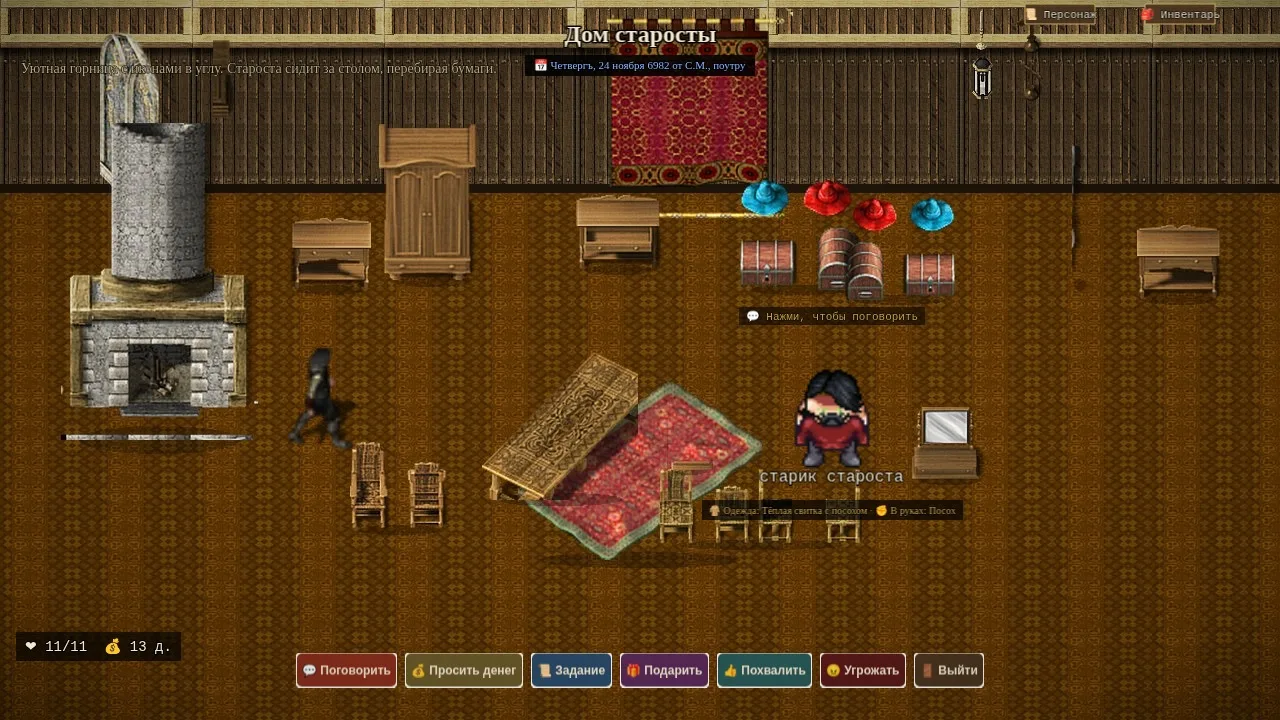
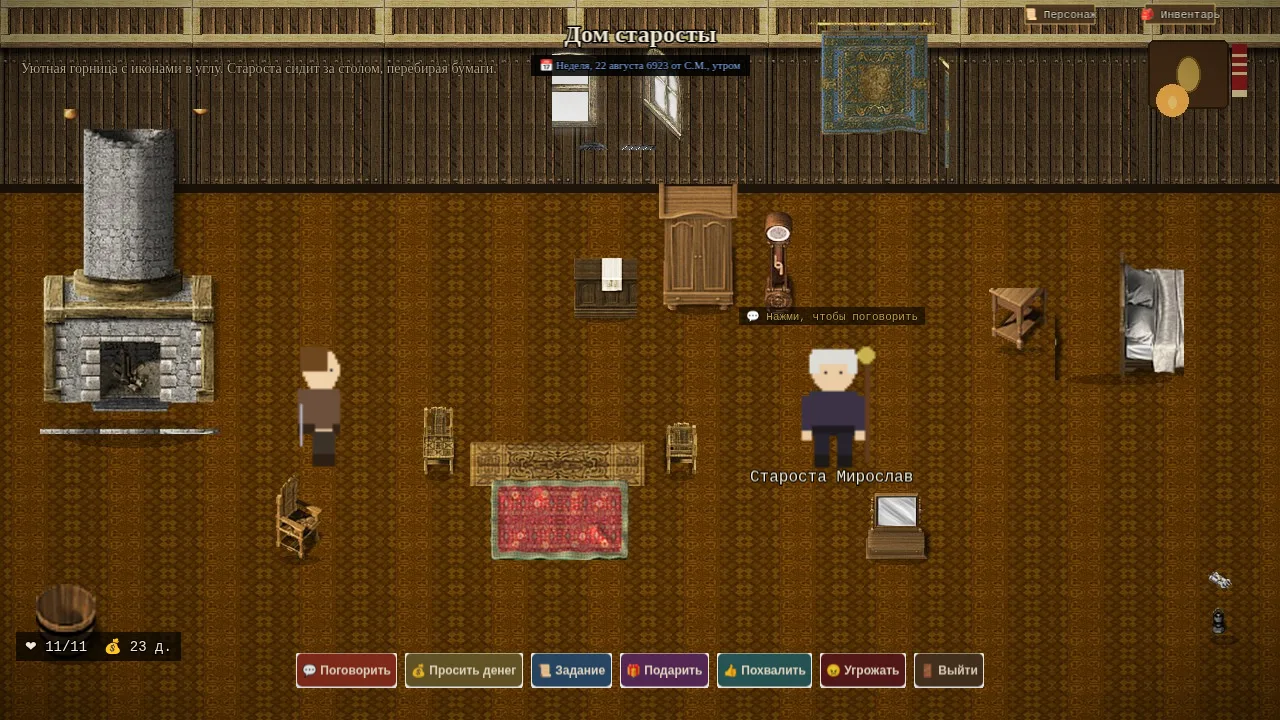
Раунд 54: полная переделка интерьеров — логический порядок, без клонов и коллизий
- Все 17 интерьеров пересобраны генератором make_interiors_r54.py по канону избы:
  печь слева, стол со стульями и ковром в центре, кровать у правой стены,
  красный угол (киот+икона+рушник+лампада), профзона у стены, свободный низ
- Только фронтальные спрайты; клоно-мусор снят (ящики вместо бочек, шкуры-кляксы,
  свиньи, платье-манекен, неоновая пряжа, хвойные брёвна)
- Автопроверки генератора: bbox-наложения (порог 6px), лимит клонов ≤2,
  свободные якоря игрока/NPC/второго NPC
- Кузница: горн С ОГНЁМ; ткачиха: станок; церковь: иконы и скамьи;
  товары ставятся НА полки/столы (караваи, кувшины, пироги, весы, мотки)
- Скриншоты 06/07 пересняты, добавлен 10-blacksmith; alt RU/EN обновлены
- SW v52, game-assets-v14; отчёт docs/QA_ROUND54_INTERIORS_REMAKE.md

diff --git a/sw.js b/sw.js
@@ -2,6 +2,8 @@
    Network-first для HTML/CSS/JS, cache-first для ассетов игры.
    Network-first для HTML/CSS/JS, cache-first для ассетов игры.
 
+v52 — раунд 54 (приказ владельца: «интерьеры отвратительные, все вперемешку, много одинаковых клонов предметов, много коллизий — переделать и привести к логическому порядку»): ВСЕ 17 интерьеров пересобраны с нуля генератором make_interiors_r54.py по канону избы — печь слева, стол со стульями и ковром в центре, кровать у правой стены, красный угол с иконой/рушником/лампадой, профессиональные полки у стены; ТОЛЬКО фронтальные спрайты (диагональные скамьи/столы/кровати выведены из оборота), клоно-мусор удалён (ящики-«бочки» из Shop.png, шкуры-кляксы, свиньи/платья-«люди» в фонах, неоновая пряжа, хвойные брёвна), bbox-проверка наложений + лимит клонов ≤2 в генераторе, свободные якоря игрока/NPC/второго NPC; кузница — горн С ОГНЁМ и доспехи, ткачиха — ткацкий станок, церковь — большая икона, кресты и скамьи; товары ставятся НА полки/столы (караваи, кувшины, пироги, мотки); скриншоты 06/07 пересняты, добавлен 10-blacksmith (RU/EN галерея, alt обновлены); SW v52, game-assets-v14.
+
 v51 — релиз (раунд 53, приказ владельца: «удалить торговую и мясную лавки — дома нужнее»): ЛАВКИ СНЯТЫ — на их местах в слободе стоят ЖИЛЫЕ ДОМА: Дом Прасковьи (снедница печёт дома, торгует с крыльца) и Дом Потапа (мясник, столешня при доме); новые фасады из Rural_TileD (светлый дом с голубой дверью и цветком / дом с каменной кладкой); оба интерьера 1280×720 пересобраны с нуля из Medieval - Interiors как ЖИЛЫЕ (хлебная горница с печью, комодом и кроватью / столешня с разделочным столом, окороками, медвежьей шкурой); кнопка «Торговать» у Прасковьи и Потапа снята (у лавки ремесленника сохранена); расписания/присутствие/подсказки Прасковьи и Потапа переведены на «дом» (печёт караваи / рубит тушу), реплики и диалоги переработаны (торговля с крыльца), упоминания «лавки/палатки» у соседей исправлены; загрузкаBootScene убрала rural_shop_0/2 и добавила rurald_house_0/1; скриншот сайта 04-village переснят (новая деревня, alt RU/EN обновлены); SW v51, game-assets-v13.
 
 v49 — релиз (раунд 51, п.11 заявки владельца: «ЕЩЁ ДЕРЕВЯННЫЕ ДОМА И ТОРГОВЫЕ ЛАВКИ» из пакета Rural_TileB/C): ВОСТОЧНАЯ СЛОБОДА — карта деревни расширена на восток (26→32 тайла), ворота переехали на новый восточный край; РЫНОЧНЫЙ РЯД — три торговые лавки-палатки из пакета владельца: Лавка снеди (Прасковья: каравай, сыр, молоко, пирог, грибы), Мясная лавка (Потап: колбаса, сало, вяленая рыба, окорок, похлёбка), Лавка ремесленника (Аверьян: факел, верёвка, кремень, свеча, оберег) — у каждой свой тайловый интерьер 1280×720 из листов Shop/Shop_2/Tavern пакета Medieval - Interiors (прилавки с товаром, витрины, туши на крюках, рыба, книжные полки, гобелены, сундуки) и кнопка «Торговать» вместо «Задания» (универсальная панель showMarketShop: цены гибкие от репутации, отказ от торговли при дурной славе ≤−50, еда лечит сразу); ДВА НОВЫХ ДЕРЕВЯННЫХ ДОМА из пакета: Дом сапожника (Нефёд + жена Агафья, полные диалоги) и Изба дровосека (Горазд: топор в руках, боевой профиль «Топор дровосека», днём рубит лес); 6 новых жителей с параметрами BRP, расписаниями (лавки работают днём, лавочники не отлучаются в таверну), уличными репликами и деревом диалогов (34 дерева всего); раскладка нижней панели интерьеров переделана на адаптивную (1..3 ряда по фактическим ширинам кнопок) — на мобильных кнопки больше не налезают друг на друга; эмблемы над новыми зданиями (🥖/🍖/⚖/🥾/🌲); палатки не дымят, слобода без оград. Юнит: 169 проверок + регрессы 46/47/48 (49+56+62).
@@ -43,8 +45,8 @@ v45 — релиз (раунд 47, 5 пунктов владельца): 1) СВ
  */
 
 
-var CACHE_NAME = 'chronicles-ruthenia-v51';
-var GAME_ASSETS_CACHE = 'game-assets-v13';
+var CACHE_NAME = 'chronicles-ruthenia-v52';
+var GAME_ASSETS_CACHE = 'game-assets-v14';
 
 self.addEventListener('install', function (event) {
     self.skipWaiting();

diff --git a/index.html b/index.html
@@ -682,12 +682,12 @@
                 <div class="screenshot-caption">5. Карта местности</div>
             </div>
             <div class="screenshot-card" data-src="assets/screenshots/06-elder-interior.webp">
-                <img src="assets/screenshots/06-elder-interior.webp" alt="Интерьер внутри дома старосты — горнило, стол с бумагами, хозяева дома" loading="lazy">
+                <img src="assets/screenshots/06-elder-interior.webp" alt="Интерьер дома старосты — печь слева, стол с ковром, кровать у стены, красный угол с иконой и рушником, синий гобелен" loading="lazy">
                 <div class="screenshot-caption">6. Интерьер дома старосты</div>
             </div>
             <div class="screenshot-card" data-src="assets/screenshots/07-priest-dialogue.webp">
-                <img src="assets/screenshots/07-priest-dialogue.webp" alt="Диалог со старостой — беда с кражей иконы: вир по Судебнику, помощь в поисках вора, работа" loading="lazy">
-                <div class="screenshot-caption">7. Диалог со старостой</div>
+                <img src="assets/screenshots/07-priest-dialogue.webp" alt="Церковь с иконами и скамьями — диалог со священником о краже иконы: молитва, пожертвование, осмотр киота" loading="lazy">
+                <div class="screenshot-caption">7. Диалог со священником</div>
             </div>
             <div class="screenshot-card" data-src="assets/screenshots/08-combat.webp">
                 <img src="assets/screenshots/08-combat.webp" alt="Окно сцены боя — пошаговый бой по BRP d100: меч, уклон, трава, побег" loading="lazy">
@@ -696,6 +696,10 @@
             <div class="screenshot-card" data-src="assets/screenshots/09-thief-encounter.webp">
                 <img src="assets/screenshots/09-thief-encounter.webp" alt="Локация с вором и персонажем игрока до боя — встреча на Рыбьей реке" loading="lazy">
                 <div class="screenshot-caption">9. Вор и герой — до боя</div>
+            </div>
+            <div class="screenshot-card" data-src="assets/screenshots/10-blacksmith.webp">
+                <img src="assets/screenshots/10-blacksmith.webp" alt="Кузница с горном и огнём — наковальня, мечи и топоры на стенах, доспехи, торговля оружием и бронёй" loading="lazy">
+                <div class="screenshot-caption">10. Кузница — горн и торговля</div>
             </div>
         </div>
     </div>

diff --git a/en/index.html b/en/index.html
@@ -680,12 +680,12 @@
                 <div class="screenshot-caption">Area map</div>
             </div>
             <div class="screenshot-card" data-src="../assets/screenshots/06-elder-interior.webp">
-                <img src="../assets/screenshots/06-elder-interior.webp" alt="Inside the elder's house — hearth, chests of gold and the hosts" loading="lazy">
+                <img src="../assets/screenshots/06-elder-interior.webp" alt="Inside the elder's house — stove, table on a carpet, bed by the wall, red corner with an icon, blue tapestry" loading="lazy">
                 <div class="screenshot-caption">Elder's house</div>
             </div>
             <div class="screenshot-card" data-src="../assets/screenshots/07-priest-dialogue.webp">
-                <img src="../assets/screenshots/07-priest-dialogue.webp" alt="Dialogue with the elder — the stolen icon trouble: wergild, thief hunt, work" loading="lazy">
-                <div class="screenshot-caption">Elder dialogue</div>
+                <img src="../assets/screenshots/07-priest-dialogue.webp" alt="The church with icons and pews — dialogue with the priest about the stolen icon: prayer, donation, shrine inspection" loading="lazy">
+                <div class="screenshot-caption">Priest dialogue</div>
             </div>
             <div class="screenshot-card" data-src="../assets/screenshots/08-combat.webp">
                 <img src="../assets/screenshots/08-combat.webp" alt="Combat scene — turn-based BRP d100 fight: bow, fists, dodge, herbs" loading="lazy">
@@ -694,6 +694,10 @@
             <div class="screenshot-card" data-src="../assets/screenshots/09-thief-encounter.webp">
                 <img src="../assets/screenshots/09-thief-encounter.webp" alt="The thief encounter at the river — attack, persuade or stun" loading="lazy">
                 <div class="screenshot-caption">The thief</div>
+            </div>
+            <div class="screenshot-card" data-src="../assets/screenshots/10-blacksmith.webp">
+                <img src="../assets/screenshots/10-blacksmith.webp" alt="The smithy with a burning forge — anvil, swords and axes on the walls, armor, weapon and armor shop" loading="lazy">
+                <div class="screenshot-caption">Smithy — forge and shop</div>
             </div>
         </div>
     </div>

diff --git a/CHANGES.md b/CHANGES.md
@@ -1,3 +1,15 @@
+## Раунд 54 — ИНТЕРЬЕРЫ ПЕРЕДЕЛАНЫ: логический порядок вместо «всего вперемешку»
+
+**ПО ПРЯМОМУ ПРИКАЗУ ВЛАДЕЛЬЦА:** «интерьеры отвратительные, все вперемешку, много одинаковых клонов предметов, много коллизий предметов интерьера, вообще надо переделывать и приводить к логическому порядку и размещению мебели и предметов инвентаря в доме! После переделки переснять скриншоты помещений которые изменились.»
+- **ВСЕ 17 ИНТЕРЬЕРОВ ПЕРЕСОБРАНЫ С НУЛЯ** (генератор make_interiors_r54.py → 17 фонов 1280×720): единый канон избы — ПЕЧЬ слева (свет InteriorScene совпадает), СТОЛ со стульями и ковром ПОД столом в центре, КРОВАТЬ у правой стены + тумбочка, КРАСНЫЙ УГОЛ на правой стене (киот-доска, икона, вышитый рушник, мерцающая лампада), профессиональные полки/станок у стены, свободный передний план.
+- **ТОЛЬКО ФРОНТАЛЬНЫЕ СПРАЙТЫ**: диагональные скамьи, столы-«паркеты» (вид сверху), разорванные кровати (bed_blue/bed_gray_192), «планки» вместо ночников выведены из оборота; вместо кривой вырезки ночника — цельная тумбочка, вместо разорванной кровати — компактные цельные кровати.
+- **КЛОНО-МУСОР УДАЛЁН**: ящики из Shop.png (которые все годы выдавались за «бочку»!) заменены настоящей бочкой из Shop.png (144,0); медвежьи «шкуры»-кляксы, свиньи-туши и свинья-поросёнок, платье-манекен (выглядело как человек в фоне), неоновая пряжа, хвойные брёвна-«мусор» — всё снято с фонов.
+- **АНТИ-КОЛЛИЗИИ В ГЕНЕРАТОРЕ**: bbox-проверка наложений мебели (порог 6px) — скрипт падает при наезде; лимит клонов ≤2; три «святые» зоны якорей (игрок 0.25w/0.55h, NPC 0.65w/0.55h, второй NPC 0.84w/0.66h) гарантированно свободны; товары ставятся ПОВЕРХ опор без проверок (пироги НА столе, караваи и кувшины НА буфете, весы и свечи НА прилавке, мотки В корзине, нарезка НА разделочном столе).
+- **ПРОФЕССИИ ЧИТАЮТСЯ СРАЗУ**: кузница — ГОРН С ОГНЁМ (Profession_2) + наковальня перед ним + мечи/топоры/щит на стене + латы и кираса + руда со слитками + штабель угля; ткачиха — ткацкий станок + прялка + лён + корзина с серыми мотками + рулон холста на стене; сапожник — верстак + кожа + стол с обувью + сапог на стойке; плотник — верстак + штабель брёвен + стойка с инструментом; дровосек — топоры на стене + штабель брёвен; гончар — горшки на стене + буфет + круги; рыбак — рыба и снасти на стене; знахарка — травы на стене + шкаф с зельями; Прасковья — буфет с караваями + банки; Потап — колбасы/окорок на стене + полка с товаром + разделочный стол; церковь — большая праздничная икона, кресты, подсвечники, две скамьи, ларь с книгой; постоялый двор — буфеты с кувшинами и банками, окорок с колбасами на стене, два стола с лавками, котёл.
+- **ВЫРЕЗКИ ПЕРЕПРОВЕРЕНЫ по контрольным листам**: у каждой подозрительной вырезки сохранён контрольный PNG (бочки, кровати, иконы, ночники, латы) — мусор из соседних тайлов устранён до попадания в фоны.
+- **СКРИНШОТЫ САЙТА**: 06-elder-interior и 07-priest-dialogue пересняты (староста дома утром, дневной свет), ДОБАВЛЕН 10-blacksmith — кузница с горном и торговлей; карточки и alt RU/EN обновлены.
+- **QA**: все 17 интерьеров проверены в браузере через CDP (сцена стартует, игрок и NPC на якорях, свет, HUD, консоль чистая); сводный лист 17 фонов просмотрен глазами; отчёт docs/QA_ROUND54_INTERIORS_REMAKE.md. SW v52, game-assets-v14.
+
 ## Раунд 53 — ЛАВКИ УДАЛЕНЫ: на их месте новые деревянные жилые дома
 
 **ПО ПРЯМОМУ ПРИКАЗУ ВЛАДЕЛЬЦА:** «"Лавка снеди выглядит отлично… Проверяю панель «Торговать»." — удалить торговую и мясную лавки! На место них поставить новый жилой дом! Дома нужны больше чем ненужная лавка.»

diff --git a/docs/QA_ROUND54_INTERIORS_REMAKE.md b/docs/QA_ROUND54_INTERIORS_REMAKE.md
@@ -1,0 +1,65 @@
+# QA РАУНД 54 — ПОЛНАЯ ПЕРЕДЕЛКА ИНТЕРЬЕРОВ
+
+Дата: раунд 54. Приказ владельца: «интерьеры отвратительные, все вперемешку, много
+одинаковых клонов предметов, много коллизий предметов интерьера — переделать и
+привести к логическому порядку»; после переделки — переснять скриншоты помещений.
+
+## Что было не так (диагноз по фоновым jpg)
+
+1. **Диагональные спрайты** в фонах: опрокинутые скамьи (bench_diag), столы «на
+   боку» (диагональные столы Tavern/Furniture_2), столы «видом сверху»
+   (table_sq = «золотой паркет»), разорванные кровати (bed_blue, bed_gray_192 —
+   изголовье отдельно от матраса).
+2. **Клоно-мусор**: вырезка «barrel» из Shop.png (0,598) — на самом деле ЯЩИКИ,
+   которые россыпями разбрасывались по домам годами; медвежьи шкуры-кляксы;
+   свиньи-туши; платье-манекен (читалось как человек в фоне); неоновая пряжа;
+   брёвна с хвоей (logs_floor).
+3. **Наложения** (коллизии предметов): полки поверх кроватей, котёл на печи,
+   скамья в столе, бочка на брёвнах и т.п. — раскладка велась «на глаз».
+4. **Беспорядок на стенах**: до 6 настенных предметов вразнобой, предметы
+   «висели в воздухе» без полок.
+
+## Решение — генератор make_interiors_r54.py
+
+- **Только фронтальные вырезки** — каталог перепроверен по контрольным листам
+  (сетка 96px + отдельные PNG вырезок): бочка (144,0,192,48 Shop.png), цельные
+  кровати (bed_gray 96×96, bed_white 96×141), тумбочка (288,624), латы без
+  соседнего обрубка, брёвна без стружки, иконы без «лестницы».
+- **Канон избы** для всех 17 сцен: печь слева (x≈130 — совпадает со светом
+  InteriorScene {x:90}), красный угол на правой стене (PIL: киот-доска, икона,
+  рушник, лампада), кровать у правой стены (низ 380) + ночник, стол в центре со
+  стульями строго по бокам и ковром ПОД столом (рисуется первым), профзона у
+  стены, передний план свободен.
+- **Автопроверки**: bbox-наложения мебели (порог 6px, падение скрипта), лимит
+  клонов ≤2, три свободные зоны якорей (игрок/NPC/второй NPC) — нарушений нет.
+- **Тип «o» (on-furniture)**: пироги, нарезка, весы, свечи, цветы, кувшины,
+  караваи, мотки — рисуются поверх опор без участия в проверке коллизий.
+
+## QA в браузере (CDP, headless canvas, 1280×720)
+
+- Все 17 интерьеров стартуют напрямую (scene.start('Interior')), статус OK,
+  игрок на (0.25w;0.55h), NPC на (0.65w;0.55h) — никто не стоит в мебели.
+- Скриншоты: дом старосты (староста дома утром, красный угол, гобелен),
+  кузница (горн С ОГНЁМ, кузнец дома), ткачиха (станок, прялка, мотки),
+  церковь (большая икона, кресты, скамьи, киот с сюжетом), лавка Аверьяна
+  (витрины, прилавок с весами), Прасковья (буфет с караваями).
+- Консоль: ошибок нет.
+- Нюанс: «сапоги» на первом скрине кузницы оказались ногами NPC-спрайта
+  (кузнец у якоря) — не дефект фона; кроп фона в этой зоне чистый.
+
+## Скриншоты сайта (пункт 2 приказа)
+
+- 06-elder-interior.webp — переснят (утро, староста в доме, дневной свет).
+- 07-priest-dialogue.webp — переснят (церковь, диалог со священником через
+  talkToNpc; тайпрайтер-реплика в headless не допечатывается — на скрине
+  портрет + все 6 опций, пергамент без текста; в живой игре текст печатается).
+- 10-blacksmith.webp — НОВЫЙ (кузница: горн, наковальня, мечи/щит, латы,
+  кузнец, кнопка «Купить оружие»).
+- Галереи RU (index.html) и EN (en/index.html): карточка 10 добавлена, alt
+  06/07 переписаны под новые интерьеры.
+
+## Остаток / следующий шаг
+
+- Пакет «аудит/скриншоты»: влезание кнопок в узких окнах, «анимации живьём»,
+  MD-документы.
+- Раунды 47 → 46 → 45 → 44 и «возраст/музыка» (бэклог владельца).
